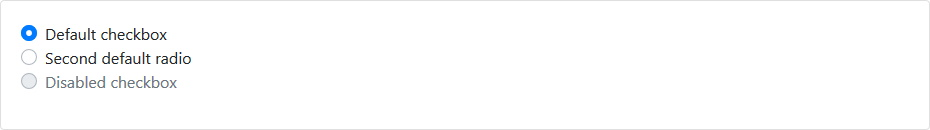
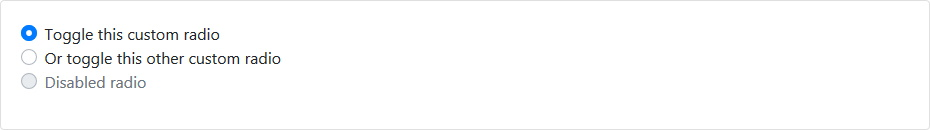
~

Changed region(s): [[0.0312, 0.4, 0.3118, 0.5231], [0.0312, 0.2154, 0.2495, 0.3385], [0.0312, 0.5846, 0.1871, 0.6769]]

diff --git a/readme/form/README.md b/readme/form/README.md
@@ -1840,7 +1840,7 @@ bsFormGroupSingle.UseCustomisation = true;
       ID = "exampleRadios1",
       IsChecked = true
     },
-    Label = "Default checkbox"
+    Label = "Toggle this custom radio"
   });
 
   GroupStacked.CustomInputs.Add(new bmInput()
@@ -1851,7 +1851,7 @@ bsFormGroupSingle.UseCustomisation = true;
       NameDom = "exampleRadios",
       ID = "exampleRadios2"
     },
-    Label = "Second default radio"
+    Label = "Or toggle this other custom radio"
   });
 
   GroupStacked.CustomInputs.Add(new bmInput()
@@ -1863,7 +1863,7 @@ bsFormGroupSingle.UseCustomisation = true;
       ID = "exampleRadios3",
       IsDisabled = true
     },
-    Label = "Disabled checkbox"
+    Label = "Disabled radio"
   });
 
   form.AddChild(GroupStacked);
@@ -1881,15 +1881,15 @@ bsFormGroupSingle.UseCustomisation = true;
   <div class="form-group">
     <div class="custom-control custom-radio">
       <input checked="checked" id="exampleRadios1" name="exampleRadios" type="radio" value="option1" class="custom-control-input">
-      <label for="exampleRadios1" class="custom-control-label">Default checkbox</label>
+      <label for="exampleRadios1" class="custom-control-label">Toggle this custom radio</label>
     </div>
     <div class="custom-control custom-radio">
       <input id="exampleRadios2" name="exampleRadios" type="radio" value="option2" class="custom-control-input">
-      <label for="exampleRadios2" class="custom-control-label">Second default radio</label>
+      <label for="exampleRadios2" class="custom-control-label">Or toggle this other custom radio</label>
     </div>
     <div class="custom-control custom-radio">
       <input disabled="disabled" id="exampleRadios3" name="exampleRadios" type="radio" value="option3" class="custom-control-input">
-      <label for="exampleRadios3" class="custom-control-label">Disabled checkbox</label>
+      <label for="exampleRadios3" class="custom-control-label">Disabled radio</label>
     </div>
   </div>
 </form>
